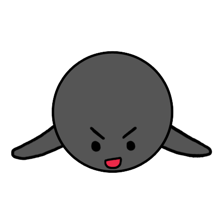
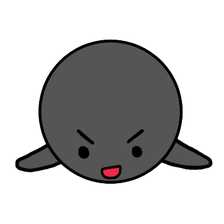
Correct lesson boards 6/8/9/10 per the artist's Go review, v1.18.2
とろろ's second review caught real Go-theory errors in the lesson
positions:
- Lesson 6 (no suicide): the target point had a liberty, so it wasn't a
  suicide point at all — added white at (1,2)/(0,3) (his l6_2) so only
  the capture makes the move legal.
- Lesson 8 (snapback): the old board wasn't a snapback. New shape (his
  l8): an 8-stone white ring whose ONLY liberty is the point it just
  captured on; black retakes there for 8 stones.
- Lesson 9 (two eyes): the old 'two eyes' were two ADJACENT empty
  points — one big eye space, i.e. a dead shape, and white could legally
  play inside (breaking the refusal demo). New shape (his l9_2): two
  separated one-point eyes, fully surrounded by white, both refusals now
  real suicide.
- Lesson 10 (false eye): rebuilt to his l10 layout — the right cluster
  meets the rest only through the false-eye point with white diagonals.
- Face 2 art swapped for his short-armed goisi_s2s/goisik2s so that
  expression no longer renders smaller.

test-lessons.js now also asserts the reviewed properties: eye plays are
refused as suicide, the no-suicide target has zero empty neighbours, the
snapback ring is 8 connected stones with exactly the marked liberty, and
the false-eye point is all-black orthogonally with white diagonals.

Changed region(s): [[0.0312, 0.1562, 0.9688, 0.8438]]

diff --git a/lessons.js b/lessons.js
@@ -100,8 +100,9 @@
       },
       goal: { th: 'จับกินกลุ่มขาวที่มุม', en: 'Capture the white corner group', ja: '隅の白2子を取る' },
       size: 9, toMove: B,
-      // white corner pair with one liberty left at (0,2): playing there is "suicide that captures" = legal
-      stones: [[0, 0, 'W'], [0, 1, 'W'], [1, 0, 'B'], [1, 1, 'B']],
+      // artist-reviewed shape (とろろ, l6_2): the marked point really has zero liberties —
+      // white presses it from below/right too — so ONLY the capture makes it legal
+      stones: [[0, 0, 'W'], [0, 1, 'W'], [1, 2, 'W'], [0, 3, 'W'], [1, 0, 'B'], [1, 1, 'B']],
       markers: [[0, 2, 'target']],
       check: function (g) { return g.captures[B] >= 2; },
       success: { th: 'ดี! กลุ่มขาวสองเม็ดถูกจับกิน — จุดล้อมที่จับกินได้ไม่ใช่การฆ่าตัวตาย', en: 'Good. Both white stones captured — a surrounded point that captures is not suicide.', ja: 'よし！相手を取れる点への着手は自殺手ではありません。' }
@@ -129,20 +130,22 @@
       id: 'snapback',
       title: { th: 'สแนปแบ็ก (Snapback)', en: 'Snapback', ja: 'ウッテガエシ' },
       body: {
-        th: 'ขาวเพิ่งจับกินหมากดำหนึ่งเม็ดตรงช่องว่างกลางกลุ่ม — แต่นั่นคือกับดัก! วางดำคืนที่จุดเดิม จะจับกินขาวทั้งกลุ่ม 5 เม็ด ต่างจากกฎโกตรงที่การจับคืนนี้กินมากกว่า 1 เม็ด กระดานไม่ย้อนกลับเป็นแบบเดิม จึงไม่ผิดกฎ',
-        en: 'White just captured one black stone in the gap — but it was bait! Play back on that very point to capture all five white stones. Unlike ko, this recapture takes more than one stone, so the board does not repeat and the rule allows it.',
-        ja: '白はグループ中央の黒1子を取ったばかり — でもそれは罠！同じ点に打ち返すと白5子をまるごと取れます。コウと違って1子より多く取るので、盤面は繰り返されずルール違反になりません。'
+        th: 'ขาวเพิ่งจับกินหมากดำหนึ่งเม็ดตรงช่องว่างกลางวง — แต่นั่นคือเหยื่อ! การจับกินทำให้ขาวทั้งวงเหลือลมเดียวคือจุดนั้นเอง วางดำคืนที่จุดเดิม จะจับกินขาวทั้งวง 8 เม็ด ต่างจากกฎโกตรงที่การจับคืนนี้กินมากกว่า 1 เม็ด กระดานไม่ย้อนกลับเป็นแบบเดิม จึงไม่ผิดกฎ',
+        en: 'White just captured one black stone in the middle of the ring — but it was bait! That capture left the whole white ring with a single liberty: that very point. Play back there to take all eight stones. Unlike ko, this recapture takes more than one stone, so the board does not repeat and the rule allows it.',
+        ja: '白は輪の中央で黒1子を取ったばかり — でもそれは捨て石！その取りで白の輪全体の呼吸点がその一点だけになりました。同じ点に打ち返すと白8子をまるごと取れます。コウと違って1子より多く取るので、盤面は繰り返されずルール違反になりません。'
       },
-      goal: { th: 'จับกินกลุ่มขาว 5 เม็ดที่จุดเป้าหมาย', en: 'Capture the 5-stone white group at the mark', ja: '目印の点で白5子を取る' },
+      goal: { th: 'จับกินวงขาว 8 เม็ดที่จุดเป้าหมาย', en: 'Capture the 8-stone white ring at the mark', ja: '目印の点で白8子を取る' },
       size: 9, toMove: B,
+      // artist-reviewed shape (とろろ, l8): a white ring whose only liberty is the point
+      // it just captured on — the definition of a snapback
       stones: [
-        [3, 3, 'W'], [4, 3, 'W'], [5, 3, 'W'], [3, 4, 'W'], [5, 4, 'W'],
-        [2, 3, 'B'], [3, 2, 'B'], [4, 2, 'B'], [5, 2, 'B'], [6, 3, 'B'],
+        [3, 2, 'W'], [4, 2, 'W'], [5, 2, 'W'], [3, 3, 'W'], [5, 3, 'W'], [3, 4, 'W'], [4, 4, 'W'], [5, 4, 'W'],
+        [3, 1, 'B'], [4, 1, 'B'], [5, 1, 'B'], [2, 2, 'B'], [6, 2, 'B'], [2, 3, 'B'], [6, 3, 'B'],
         [2, 4, 'B'], [6, 4, 'B'], [3, 5, 'B'], [4, 5, 'B'], [5, 5, 'B']
       ],
-      markers: [[4, 4, 'target']],
-      check: function (g) { return g.captures[B] >= 5; },
-      success: { th: 'สแนปแบ็ก! เสีย 1 ได้ 5 — การสละหมากเล็กเพื่อกินใหญ่คือหัวใจของเทคนิคนี้', en: 'Snapback! One stone traded for five — a small sacrifice for a big capture.', ja: 'ウッテガエシ！1子の犠牲で5子ゲット — 小を捨てて大を取る手筋です。' }
+      markers: [[4, 3, 'target']],
+      check: function (g) { return g.captures[B] >= 8; },
+      success: { th: 'สแนปแบ็ก! เสีย 1 ได้ 8 — การสละหมากเล็กเพื่อกินใหญ่คือหัวใจของเทคนิคนี้', en: 'Snapback! One stone traded for eight — a small sacrifice for a big capture.', ja: 'ウッテガエシ！1子の犠牲で8子ゲット — 小を捨てて大を取る手筋です。' }
     },
     {
       id: 'eyes',
@@ -154,12 +157,18 @@
       },
       goal: { th: 'ลองวางขาวในตาทั้งสอง (จะถูกปฏิเสธ) แล้วกด “เข้าใจแล้ว”', en: 'Try white in the eyes (refused), then press “Got it”.', ja: '両方の眼に白を打ってみて（拒否されます）、「わかった」を押す' },
       size: 9, toMove: W,
+      // artist-reviewed shape (とろろ, l9_2): the old layout had two ADJACENT empty points —
+      // one big eye space, actually a dead shape. Real life needs two SEPARATED eyes;
+      // white fully surrounds the group to show it still cannot be captured.
       stones: [
-        [1, 1, 'B'], [2, 1, 'B'], [3, 1, 'B'], [4, 1, 'B'],
-        [1, 2, 'B'], [4, 2, 'B'], [1, 3, 'B'], [2, 3, 'B'], [3, 3, 'B'], [4, 3, 'B'],
-        // eyes at (2,2) and (3,2)
+        [2, 3, 'B'], [3, 3, 'B'], [4, 3, 'B'], [5, 3, 'B'], [6, 3, 'B'],
+        [2, 4, 'B'], [4, 4, 'B'], [6, 4, 'B'],
+        [2, 5, 'B'], [3, 5, 'B'], [4, 5, 'B'], [5, 5, 'B'], [6, 5, 'B'],
+        [2, 2, 'W'], [3, 2, 'W'], [4, 2, 'W'], [5, 2, 'W'], [6, 2, 'W'],
+        [1, 3, 'W'], [7, 3, 'W'], [1, 4, 'W'], [7, 4, 'W'], [1, 5, 'W'], [7, 5, 'W'],
+        [2, 6, 'W'], [3, 6, 'W'], [4, 6, 'W'], [5, 6, 'W'], [6, 6, 'W']
       ],
-      markers: [[2, 2, 'eye'], [3, 2, 'eye']],
+      markers: [[3, 4, 'eye'], [5, 4, 'eye']],
       manualDone: true, // completed by the "Got it" button
       check: function () { return false; },
       success: { th: 'ถูกต้อง สองตาคือหัวใจของการมีชีวิตในโกะ', en: 'Right. Two eyes is the heart of life in Go.', ja: 'その通り。二眼こそ碁における生きの心臓部です。' }
@@ -174,13 +183,18 @@
       },
       goal: { th: 'สังเกตความต่างของสองตา แล้วกด “เข้าใจแล้ว”', en: 'Compare the two eyes, then press "Got it".', ja: '2つの眼の違いを見比べて「わかった」を押す' },
       size: 9, toMove: W,
+      // artist-reviewed shape (とろろ, l10): the left group's eye is real (black on every
+      // side and diagonal); the right cluster only meets the rest THROUGH the false-eye
+      // point, whose diagonals (3,1)/(3,3) are white.
       stones: [
-        [1, 1, 'B'], [2, 1, 'B'], [3, 1, 'B'], [5, 1, 'B'], [6, 1, 'B'],
-        [1, 2, 'B'], [3, 2, 'B'], [4, 2, 'B'], [6, 2, 'B'],
-        [1, 3, 'B'], [2, 3, 'B'], [3, 3, 'B'], [5, 3, 'B'], [6, 3, 'B'],
-        [4, 1, 'W'], [4, 3, 'W']
+        [0, 1, 'B'], [1, 1, 'B'], [2, 1, 'B'], [4, 1, 'B'], [5, 1, 'B'],
+        [0, 2, 'B'], [2, 2, 'B'], [3, 2, 'B'], [5, 2, 'B'],
+        [0, 3, 'B'], [1, 3, 'B'], [2, 3, 'B'], [4, 3, 'B'], [5, 3, 'B'],
+        [3, 0, 'W'], [4, 0, 'W'], [5, 0, 'W'], [6, 0, 'W'],
+        [3, 1, 'W'], [6, 1, 'W'], [3, 3, 'W'], [6, 3, 'W'],
+        [3, 4, 'W'], [4, 4, 'W'], [5, 4, 'W'], [6, 4, 'W']
       ],
-      markers: [[2, 2, 'eye'], [5, 2, 'target']],
+      markers: [[1, 2, 'eye'], [4, 2, 'target']],
       manualDone: true,
       check: function () { return false; },
       success: { th: 'ใช่เลย เวลานับตาให้มองมุมทแยงด้วย ไม่ใช่แค่ช่องว่าง', en: 'Exactly — judge eyes by their diagonals, not just the empty point.', ja: 'その通り — 眼は空点だけでなく斜めも見て判断しましょう。' }

diff --git a/tools/test-lessons.js b/tools/test-lessons.js
@@ -20,7 +20,7 @@ var SOLUTIONS = {
   ladder: [[4, 6]],
   noselfatari: [[0, 2]],
   ko: [[4, 4]],
-  snapback: [[4, 4]]
+  snapback: [[4, 3]]
 };
 
 function build(L) {
@@ -67,5 +67,39 @@ var endL = LESSONS.filter(function (L) { return L.id === 'ending'; })[0];
 var eg = build(endL);
 G.pass(eg);
 assert(G.pass(eg).ended, 'ending: two passes did not end the game');
+
+function lesson(id) { return LESSONS.filter(function (L) { return L.id === id; })[0]; }
+
+// 'eyes' promises white inside either eye is refused as suicide (artist review: the old
+// two-ADJACENT-empty-points shape was one big eye space — a dead shape, and the play
+// inside it was legal, breaking the demo)
+var eyesG = build(lesson('eyes'));
+lesson('eyes').markers.forEach(function (m) {
+  var r = G.play(eyesG, m[0], m[1], 2);
+  assert(!r.ok && r.reason === 'suicide', 'eyes: white at ' + m + ' was not refused as suicide');
+});
+
+// 'noselfatari' promises the target is a zero-liberty point EXCEPT for the capture:
+// every empty neighbour of the target must be... none — all its neighbours are stones
+var nsL = lesson('noselfatari'), nsG = build(nsL), nsT = nsL.markers[0];
+G.neighbors(nsG, G.idx(nsG, nsT[0], nsT[1])).forEach(function (nb) {
+  assert(nsG.board[nb] !== 0, 'noselfatari: target has an empty neighbour — not a zero-liberty point');
+});
+
+// 'snapback' promises the ring's ONLY liberty is the marked point (so the story
+// "white just captured there and is left with one liberty" holds)
+var sbL = lesson('snapback'), sbG = build(sbL), sbT = sbL.markers[0];
+var ring = G.group(sbG, G.idx(sbG, 3, 2));
+assert(ring.stones.length === 8, 'snapback: white ring is not 8 connected stones');
+assert(ring.liberties.length === 1 && ring.liberties[0] === G.idx(sbG, sbT[0], sbT[1]),
+  'snapback: ring liberty is not exactly the marked point');
+
+// 'falseeye' promises the false-eye point is orthogonally all-black with white diagonals
+var feL = lesson('falseeye'), feG = build(feL), feT = feL.markers.filter(function (m) { return m[2] === 'target'; })[0];
+G.neighbors(feG, G.idx(feG, feT[0], feT[1])).forEach(function (nb) {
+  assert(feG.board[nb] === 1, 'falseeye: false-eye point has a non-black orthogonal neighbour');
+});
+assert(feG.board[G.idx(feG, 3, 1)] === 2 && feG.board[G.idx(feG, 3, 3)] === 2,
+  'falseeye: the white diagonals are missing');
 
 console.log('test-lessons PASS: ' + LESSONS.length + ' lessons — prefills legal, solutions complete, TH/EN/JA strings present');

diff --git a/ui.js b/ui.js
@@ -7,9 +7,10 @@
   'use strict';
   var E = window.GoEngine, LESSONS = window.GoLessons;
   var BLACK = E.BLACK, WHITE = E.WHITE, EMPTY = E.EMPTY;
-  var VERSION = '1.18.1';
+  var VERSION = '1.18.2';
   // shown in the in-app "version history" dialog (newest first)
   var CHANGELOG = [
+    { v: '1.18.2', th: 'แก้ผังบทเรียน 6/8/9/10 ให้ถูกตามหลักโกะ (ขอบคุณ とろろ) + รูปหน้า 2 แขนสั้น', en: 'Lessons 6/8/9/10 boards corrected per Go theory (thanks とろろ) + short-arm face 2', ja: 'レッスン6/8/9/10の配石を修正（とろろ様に感謝）+ 表情2を差し替え' },
     { v: '1.18.1', th: 'แก้ขอบปุ่มตัวเลือกซ้อนกันดูแปลก + ป้ายญี่ปุ่นไม่ตัดกลางคำ', en: 'Fix odd double-bordered segmented buttons + Japanese label wrapping', ja: '選択ボタンの二重枠を修正 + 日本語ラベルの折返しを解消' },
     { v: '1.18.0', th: 'เพิ่มภาษาญี่ปุ่น', en: 'Japanese language added', ja: '日本語に対応しました' },
     { v: '1.17.1', th: 'ปรับสีหน้าหมากตามคำแนะนำของผู้วาด (とろろ)', en: 'Stone expressions tuned per the artist\'s (とろろ) review', ja: '作者（とろろ様）のレビューに沿って碁石さんの表情を調整' },

diff --git a/styles.css b/styles.css
@@ -182,10 +182,10 @@ footer a { color: var(--accent); text-decoration: none; }
    ?v= cache-busts when the guide art changes (these filenames are reused); bump with VERSION. */
 .mascot-row { display: flex; align-items: center; gap: 10px; margin-bottom: 14px; }
 .mascot { width: 62px; height: 46px; flex: none; background: center/contain no-repeat; }
-.mascot[data-state="idle"]  { background-image: url(assets/mascot/idle.png?v=1.18.1); }
-.mascot[data-state="happy"] { background-image: url(assets/mascot/happy.png?v=1.18.1); }
-.mascot[data-state="think"] { background-image: url(assets/mascot/think.png?v=1.18.1); }
-.mascot[data-state="oops"]  { background-image: url(assets/mascot/oops.png?v=1.18.1); }
+.mascot[data-state="idle"]  { background-image: url(assets/mascot/idle.png?v=1.18.2); }
+.mascot[data-state="happy"] { background-image: url(assets/mascot/happy.png?v=1.18.2); }
+.mascot[data-state="think"] { background-image: url(assets/mascot/think.png?v=1.18.2); }
+.mascot[data-state="oops"]  { background-image: url(assets/mascot/oops.png?v=1.18.2); }
 .mascot-msg { font-size: 13.5px; color: var(--ink); margin: 0; min-height: 18px; font-weight: 500; }
 
 @media (prefers-reduced-motion: reduce) {

diff --git a/index.html b/index.html
@@ -8,7 +8,7 @@
   <meta name="color-scheme" content="light dark">
   <meta name="description" content="เรียนและเล่นโกะ (หมากล้อม / 围棋 / Go) ในเบราว์เซอร์ พร้อมโหมดสอนเล่นทีละขั้น">
   <title>围棋 · Go · หมากล้อม — เรียนและเล่น</title>
-  <link rel="stylesheet" href="styles.css?v=1.18.1">
+  <link rel="stylesheet" href="styles.css?v=1.18.2">
 </head>
 <body>
   <div class="wrap">
@@ -157,8 +157,8 @@
   </dialog>
 
   <!-- ?v= cache-busts on each release; bump together with VERSION in ui.js / worker.js -->
-  <script src="engine.js?v=1.18.1"></script>
-  <script src="lessons.js?v=1.18.1"></script>
-  <script src="ui.js?v=1.18.1"></script>
+  <script src="engine.js?v=1.18.2"></script>
+  <script src="lessons.js?v=1.18.2"></script>
+  <script src="ui.js?v=1.18.2"></script>
 </body>
 </html>

diff --git a/worker.js b/worker.js
@@ -7,7 +7,7 @@
  * run KataGo nets in neural-worker.js — see kataModel() in ui.js.
  */
 /* global GoEngine, importScripts, postMessage, onmessage */
-importScripts('engine.js?v=1.18.1'); // keep in sync with VERSION (cache-bust)
+importScripts('engine.js?v=1.18.2'); // keep in sync with VERSION (cache-bust)
 var E = GoEngine, EMPTY = E.EMPTY;
 
 function isEye(g, i, color) {
